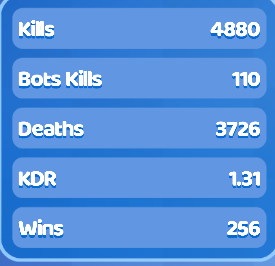
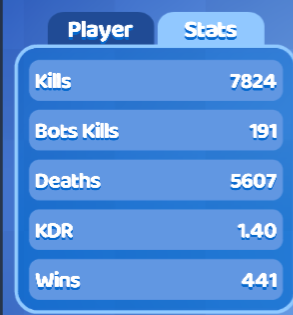
Updated Bowser, Sub2PewDiePie, ZePiggman

diff --git a/index.html b/index.html
@@ -201,11 +201,11 @@
             <div class="number color1">21.</div>
             <div class="box color1"><a href="Images/Screenshots/Bowser.png" class="lightbox_trigger"><i class="fas fa-camera"></i></a></div>
             <div class="name color1">Bowser</div>
-            <div class="box color1">1.74</div>
-            <div class="box color1">18,914</div>
-            <div class="box color1">8,177</div>
-            <div class="box color1">10,862</div>
-            <div class="box color1">1,271</div>
+            <div class="box color1">1.78</div>
+            <div class="box color1">20,887</div>
+            <div class="box color1">8,300</div>
+            <div class="box color1">11,767</div>
+            <div class="box color1">1,414</div>
 
             <div class="number color2">22.</div>
             <div class="box color2"><a href="Images/Screenshots/K1ittens.png" class="lightbox_trigger"><i class="fas fa-camera"></i></a></div>
@@ -316,6 +316,15 @@
             <div class="box color1">104</div>
 
             <div class="number color2">34.</div>
+            <div class="box color2"><a href="Images/Screenshots/ZePiggman.png" class="lightbox_trigger"><i class="fas fa-camera"></i></a></div>
+            <div class="name color2">ZePiggman</div>
+            <div class="box color2">1.40</div>
+            <div class="box color2">7,824</div>
+            <div class="box color2">191</div>
+            <div class="box color2">5,607</div>
+            <div class="box color2">441</div>
+
+            <div class="number color2">35.</div>
             <div class="box color2"><a href="Images/Screenshots/IcyPro.png" class="lightbox_trigger"><i class="fas fa-camera"></i></a></div>
             <div class="name color2">IcyPro</div>
             <div class="box color2">1.31</div>
@@ -323,15 +332,6 @@
             <div class="box color2">997</div>
             <div class="box color2">11,404</div>
             <div class="box color2">922</div>
-
-            <div class="number color1">35.</div>
-            <div class="box color1"><a href="Images/Screenshots/ZePiggman.png" class="lightbox_trigger"><i class="fas fa-camera"></i></a></div>
-            <div class="name color1">ZePiggman</div>
-            <div class="box color1">1.31</div>
-            <div class="box color1">4,880</div>
-            <div class="box color1">110</div>
-            <div class="box color1">3,726</div>
-            <div class="box color1">256</div>
 
             <div class="number color2">36.</div>
             <div class="box color2"><a href="Images/Screenshots/KI123NG.png" class="lightbox_trigger"><i class="fas fa-camera"></i></a></div>
@@ -363,11 +363,11 @@
             <div class="number color1">39.</div>
             <div class="box color1"><a href="Images/Screenshots/Sub2PewDiePie.png" class="lightbox_trigger"><i class="fas fa-camera"></i></a></div>
             <div class="name color1">Sub2PewDiePie</div>
-            <div class="box color1">1.15</div>
-            <div class="box color1">1,642</div>
-            <div class="box color1">74</div>
-            <div class="box color1">1,422</div>
-            <div class="box color1">53</div>
+            <div class="box color1">1.16</div>
+            <div class="box color1">1,720</div>
+            <div class="box color1">75</div>
+            <div class="box color1">1,483</div>
+            <div class="box color1">57</div>
 
             <div class="number color2">40.</div>
             <div class="box color2"><a href="Images/Screenshots/Victory Valtryek.png" class="lightbox_trigger"><i class="fas fa-camera"></i></a></div>
@@ -406,7 +406,7 @@
             <div class="box color1">42</div>
         </div>
 
-        <div id="update">Last updated: 4/16/2021</div>
+        <div id="update">Last updated: 4/21/2021</div>
 
         <p>To be included in the leaderboard, or to update your stats, please DM haedcase 
             <a href="http://discordapp.com/users/696072046374813776"><i class="fab fa-discord" id="discordLink"></i></a> 
